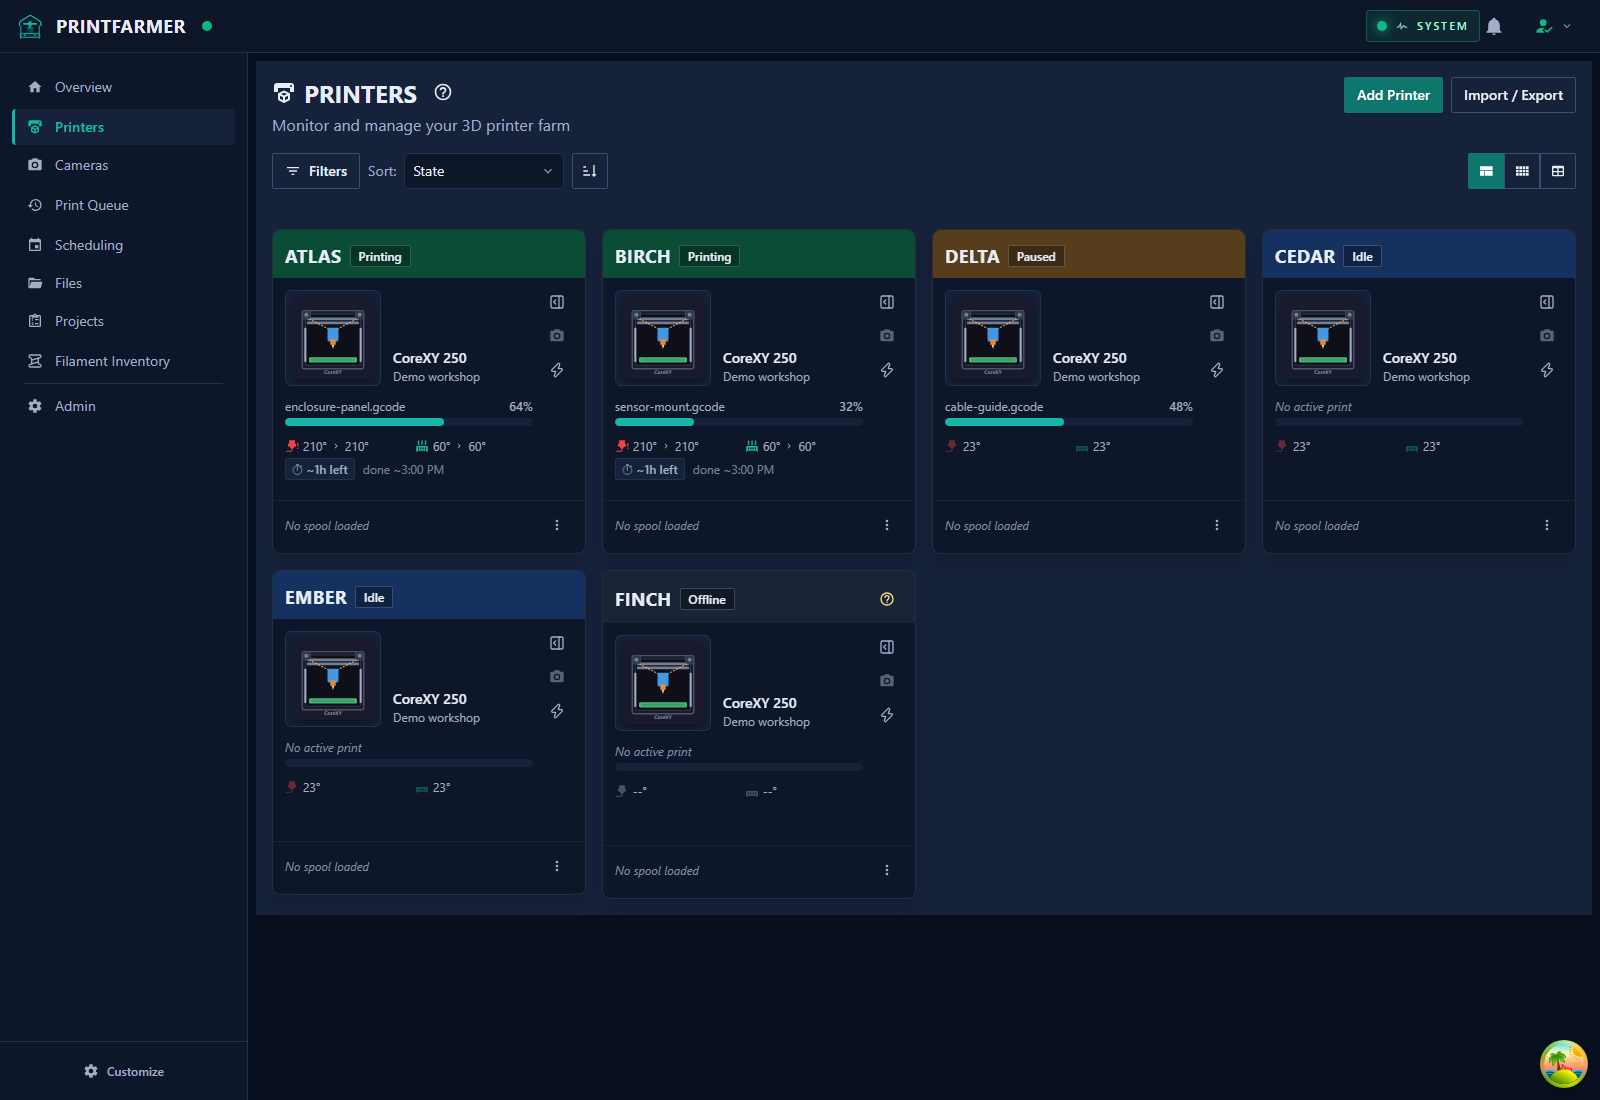
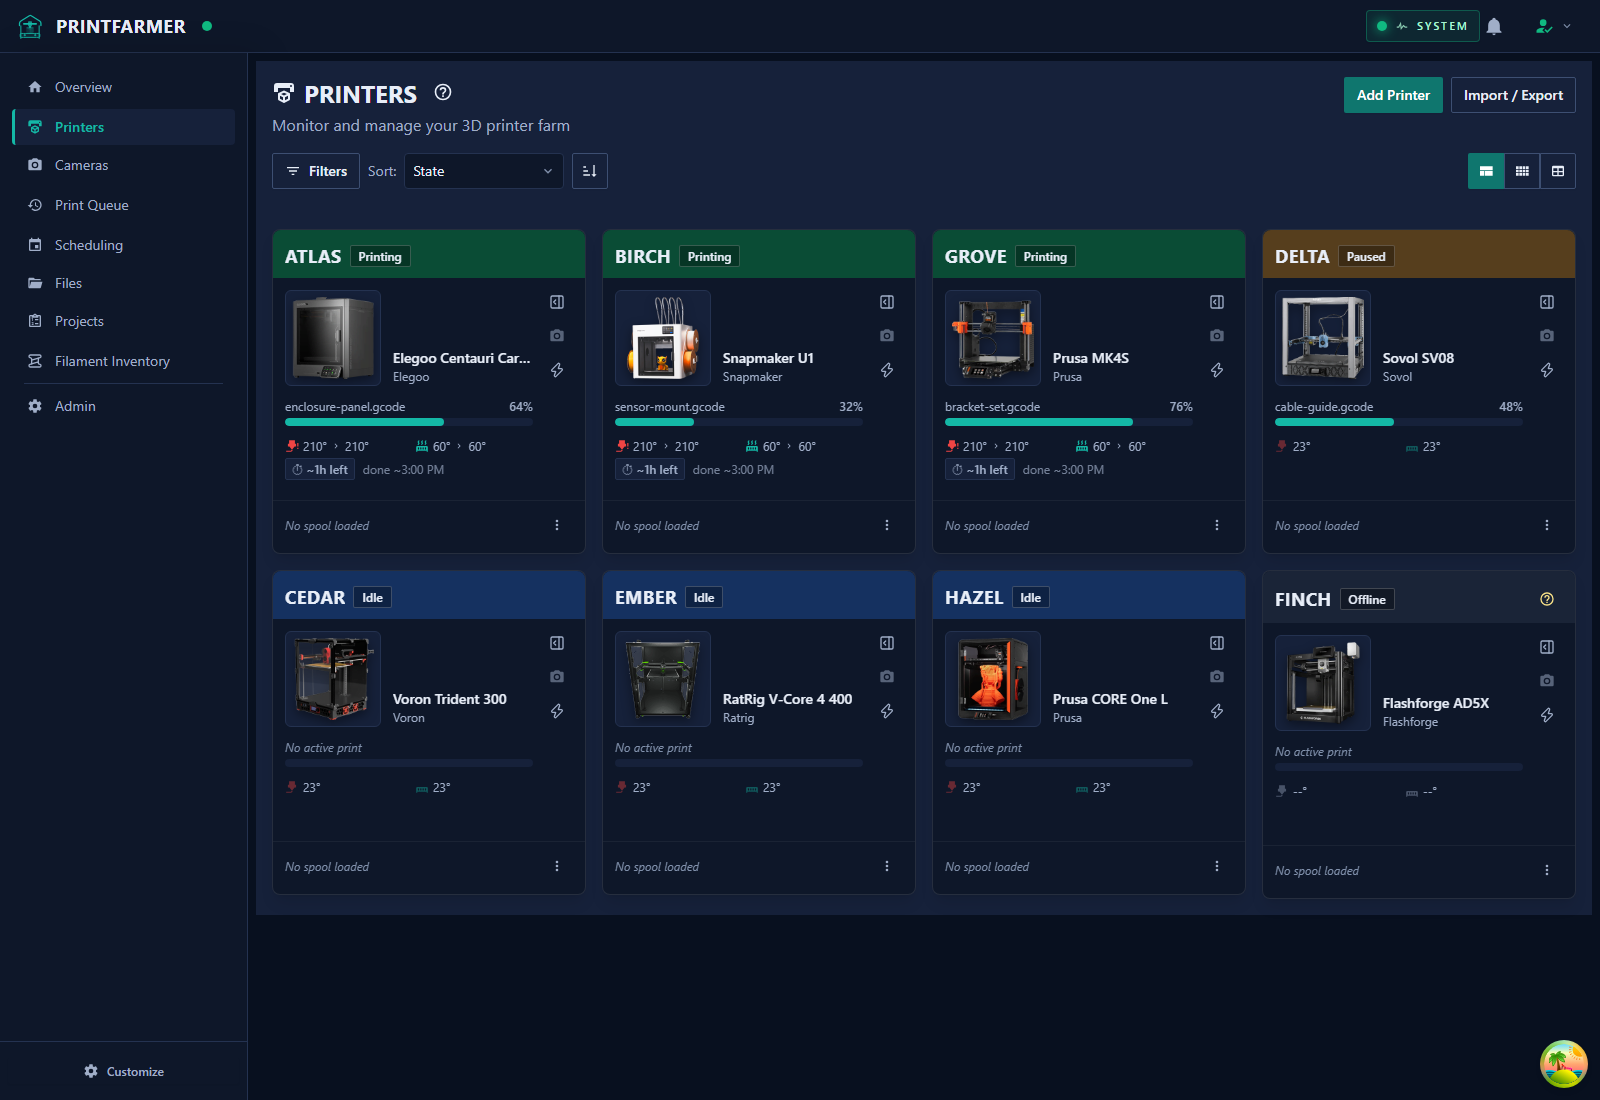
feat(site): show requested printer model covers in fleet capture
Document source-level backend evidence and unresolved image rights before public marketing use.

diff --git a/src/Web/ReactApp/e2e/marketing/fixtures.ts b/src/Web/ReactApp/e2e/marketing/fixtures.ts
@@ -1,32 +1,41 @@
 import type { BrowserContext } from '@playwright/test';
 import { inventoryRouteSeeds } from '../fixtures/toolbar-routes-inventory';
 import { toolbarRouteUser } from '../fixtures/toolbar-routed';
-import { MotionType, PrinterBackend, PrintProjectStatus, type Printer, type PrintProjectListDto, type SpoolmanFilament, type QueueChangeFeed, type QueueChangeWatermark } from '../../src/types/api';
+import { MotionType, PrinterBackend, PrintProjectStatus, type Printer, type ManufacturerDto, type PrinterModelDto, type PrintProjectListDto, type SpoolmanFilament, type QueueChangeFeed, type QueueChangeWatermark } from '../../src/types/api';
 
 export const captureOrigin = 'http://127.0.0.1:4178';
 export const captureTime = '2026-10-30T14:00:00Z';
 const inventory = inventoryRouteSeeds();
 
-export const printers: Printer[] = ([
-  ['demo-1', 'Atlas', 'Printing', 64, 'enclosure-panel.gcode'],
-  ['demo-2', 'Birch', 'Printing', 32, 'sensor-mount.gcode'],
-  ['demo-3', 'Cedar', 'Idle', 0, ''],
-  ['demo-4', 'Delta', 'Paused', 48, 'cable-guide.gcode'],
-  ['demo-5', 'Ember', 'Idle', 0, ''],
-  ['demo-6', 'Finch', 'Offline', 0, ''],
-] as const).map(([id, name, state, progress, fileName]) => ({
+export const printers = ([
+  ['demo-1', 'Atlas', 'Printing', 64, 'enclosure-panel.gcode', 'Elegoo', 'Elegoo Centauri Carbon', PrinterBackend.SDCP, MotionType.CoreXY],
+  ['demo-2', 'Birch', 'Printing', 32, 'sensor-mount.gcode', 'Snapmaker', 'Snapmaker U1', PrinterBackend.Moonraker, MotionType.CoreXY],
+  ['demo-3', 'Cedar', 'Idle', 0, '', 'Voron', 'Voron Trident 300', PrinterBackend.Moonraker, MotionType.CoreXY],
+  ['demo-4', 'Delta', 'Paused', 48, 'cable-guide.gcode', 'Sovol', 'Sovol SV08', PrinterBackend.Moonraker, MotionType.CoreXY],
+  ['demo-5', 'Ember', 'Idle', 0, '', 'Ratrig', 'RatRig V-Core 4 400', PrinterBackend.Moonraker, MotionType.CoreXY],
+  ['demo-6', 'Finch', 'Offline', 0, '', 'Flashforge', 'Flashforge AD5X', PrinterBackend.FlashForge, MotionType.CoreXY],
+  ['demo-7', 'Grove', 'Printing', 76, 'bracket-set.gcode', 'Prusa', 'Prusa MK4S', PrinterBackend.PrusaLink, MotionType.Cartesian],
+  ['demo-8', 'Hazel', 'Idle', 0, '', 'Prusa', 'Prusa CORE One L', PrinterBackend.PrusaLink, MotionType.CoreXY],
+] as const).map(([id, name, state, progress, fileName, manufacturerName, modelName, backend, motionType]) => ({
   id, name, state, progress, fileName,
-  backend: PrinterBackend.Moonraker,
+  backend, manufacturerName, modelName, motionType,
   isOnline: state !== 'Offline', isEnabled: true, inMaintenance: false,
-  manufacturerName: 'Demo workshop', modelName: 'CoreXY 250',
-  motionType: MotionType.CoreXY,
   hotendTemp: state === 'Printing' ? 210 : 23,
   hotendTarget: state === 'Printing' ? 210 : 0,
   bedTemp: state === 'Printing' ? 60 : 23,
   bedTarget: state === 'Printing' ? 60 : 0,
   printTimeLeftSeconds: state === 'Printing' ? 3600 : undefined,
   obicoEnabled: false,
-}));
+} satisfies Printer));
+
+const manufacturers = [...new Set(printers.map(printer => printer.manufacturerName))].map(name => ({
+  id: `demo-${name.toLowerCase()}`, name,
+} satisfies ManufacturerDto));
+const printerModels = printers.map(printer => ({
+  id: `model-${printer.id}`, name: printer.modelName,
+  manufacturerId: `demo-${printer.manufacturerName.toLowerCase()}`,
+  motionType: printer.motionType, defaultBackend: printer.backend,
+} satisfies PrinterModelDto));
 
 const responses: Record<string, unknown> = {
   'GET /api/setup/status': { needsSetup: false },
@@ -44,7 +53,7 @@ const responses: Record<string, unknown> = {
     app: { version: 'demo', uptime: '01:00:00', hostname: 'demo-workshop' },
     cpu: { cores: 4, usagePercent: 10 }, memory: { usedBytes: 1000000000, totalBytes: 8000000000 },
     disk: { usedBytes: 1000000000, totalBytes: 8000000000, archiveBytes: 0, databaseBytes: 0 },
-    services: [], database: { engine: 'SQLite', version: 'demo', printerCount: 6, archiveCount: 0 },
+    services: [], database: { engine: 'SQLite', version: 'demo', printerCount: printers.length, archiveCount: 0 },
   },
   'GET /api/admin/release-updates': {
     status: 'UpToDate', updateAvailable: false, installedVersion: 'demo', channel: 'Stable',
@@ -55,8 +64,8 @@ const responses: Record<string, unknown> = {
   },
   'GET /api/job-queue/changes/watermark': { latestSequence: 0 } satisfies QueueChangeWatermark,
   'GET /api/job-queue/changes': { afterSequence: 0, nextSequence: 0, hasMore: false, events: [] } satisfies QueueChangeFeed,
-  'GET /api/catalog/manufacturers': inventory['/api/catalog/manufacturers'],
-  'GET /api/catalog/printer-models': inventory['/api/catalog/printer-models'],
+  'GET /api/catalog/manufacturers': manufacturers,
+  'GET /api/catalog/printer-models': printerModels,
   'GET /api/tags/objects': [],
   'GET /api/job-queue-analytics/printer-summaries': [],
   'GET /api/auto-dispatch/status': { globalEnabled: false, printers: [] },

diff --git a/src/Web/ReactApp/e2e/marketing/capture.spec.ts b/src/Web/ReactApp/e2e/marketing/capture.spec.ts
@@ -1,7 +1,7 @@
 import { expect, test } from '@playwright/test';
 import { mkdir } from 'node:fs/promises';
 import { fileURLToPath } from 'node:url';
-import { captureOrigin, captureTime, isolateCapture } from './fixtures';
+import { captureOrigin, captureTime, isolateCapture, printers } from './fixtures';
 
 const assets = fileURLToPath(new URL('../../../../../site/assets/captures/', import.meta.url));
 
@@ -26,9 +26,25 @@ for (const scene of [
     await expect(page.locator('main [aria-busy="true"]')).toHaveCount(0);
     await expect(page.locator('main [role="alert"]')).toHaveCount(0);
     if (scene.name === 'fleet') {
-      for (const name of ['Atlas', 'Birch', 'Cedar', 'Delta', 'Ember', 'Finch']) {
-        await expect(page.getByText(name, { exact: true })).toBeVisible();
+      const cards = page.locator('main article[data-pf-card]');
+      await expect(cards).toHaveCount(8);
+      for (const printer of printers) {
+        const card = cards.filter({ has: page.getByText(printer.name, { exact: true }) });
+        await expect(card).toBeInViewport({ ratio: 1 });
+        await expect(card.getByText(printer.modelName, { exact: true })).toBeVisible();
+        const image = card.locator('[data-testid="compact-printer-image"] img');
+        const expectedCover = `/assets/orcaslicer/${printer.manufacturerName.toLowerCase()}/${encodeURIComponent(printer.modelName)}_cover.png`;
+        await expect(image).toHaveAttribute('src', expectedCover);
+        await expect.poll(() => image.evaluate((img: HTMLImageElement) => img.complete && img.naturalWidth > 0)).toBe(true);
       }
+      const positions = await cards.evaluateAll(elements => elements.map(element => {
+        const { x, y } = element.getBoundingClientRect();
+        return { x: Math.round(x), y: Math.round(y) };
+      }));
+      expect(new Set(positions.map(position => position.x)).size, 'Four columns').toBe(4);
+      const rows = [...new Set(positions.map(position => position.y))];
+      expect(rows, 'Two complete rows').toHaveLength(2);
+      for (const y of rows) expect(positions.filter(position => position.y === y)).toHaveLength(4);
       await expect(page.getByText('64%', { exact: true })).toBeVisible();
     }
     if (scene.name === 'projects') {

diff --git a/site/index.html b/site/index.html
@@ -57,11 +57,11 @@ seed 6bf9f90b. Preserve the established app identity, no theme replacement.
         </div>
         <a href="assets/captures/fleet.png" class="capture-link" aria-label="Open full-size printer fleet screenshot">
           <img class="fleet-capture" src="assets/captures/fleet.png" width="1600" height="1100"
-            alt="PrintFarmer's Printers page with six synthetic printers: Atlas and Birch printing, Delta paused, Cedar and Ember idle, and Finch offline."
+            alt="PrintFarmer's Printers page with eight demo printers and model images: Elegoo Centauri Carbon, Snapmaker U1, Voron Trident, Sovol SV08, RatRig V-Core 4, Flashforge AD5X, Prusa MK4S, and CORE One L, in printing, paused, idle, and offline states."
             fetchpriority="high">
           <span class="image-action" aria-hidden="true">Open full screenshot &#8599;</span>
         </a>
-        <figcaption>Actual PrintFarmer web interface. All printers, jobs, materials, and figures shown are synthetic demo data. No live farm or camera feeds.</figcaption>
+        <figcaption>Actual PrintFarmer web interface with model images from OrcaSlicer profiles. Printer names, jobs, materials, and figures are synthetic demo data, not a hardware compatibility test. No live farm or camera feeds.</figcaption>
       </figure>
     </section>
 
@@ -88,7 +88,7 @@ seed 6bf9f90b. Preserve the established app identity, no theme replacement.
           <a class="text-link" href="#fleet">View the fleet screenshot <span aria-hidden="true">&#8593;</span></a>
         </div>
         <div class="fleet-notes">
-          <p><strong>A fleet, not six browser tabs.</strong> The same printer list keeps different machine states visible side by side.</p>
+          <p><strong>A fleet, not eight browser tabs.</strong> The same printer list keeps different machine states visible side by side.</p>
           <p><strong>Status with context.</strong> A paused print is not an idle printer. An offline printer is not a successful job.</p>
           <p><strong>Go deeper when you need to.</strong> Compact and detailed views let you choose how much of the workspace a printer occupies.</p>
         </div>

diff --git a/docs/MARKETING_CAPTURES.md b/docs/MARKETING_CAPTURES.md
@@ -16,8 +16,46 @@ The images demonstrate frontend presentation, **not** functioning hardware,
 backend safety, performance, or a verified Spoolman connection.
 
 The logo is copied from `src/Web/ReactApp/public/printfarmer-logo.svg`.
-Printer illustrations are the app's repository-owned generic CoreXY fallback,
-not customer photos, camera feeds, or vendor product photography.
+The fleet uses eight existing OrcaSlicer model cover images through the app's
+`PrinterImage` / `assetService` resolver and local asset manifest, not generic
+fallbacks or screenshot edits. No customer photos or camera feeds are used.
+
+## Models shown, connection evidence, and image rights
+
+The fixture interprets "Elegoo CC1" as the original Centauri Carbon and "adx5"
+as Flashforge AD5X. It selects the Trident 300 and V-Core 4 400 variants.
+The table records source-level connection evidence, **not** verified operation
+of these eight physical printers or every firmware/capability combination.
+
+| Model shown | Fixture backend | Evidence and limits |
+|---|---|---|
+| Elegoo Centauri Carbon | SDCP | `SdcpClient` explicitly targets this model. |
+| Snapmaker U1 | Moonraker | `MoonrakerDiscoveryProbe` and U1-specific client/subscription code handle its Moonraker-compatible interface. |
+| Voron Trident 300 | Moonraker | Conditional on a reachable compatible Klipper/Moonraker installation; no Trident-specific hardware proof was collected. |
+| Sovol SV08 | Moonraker | Conditional on its exposed compatible Moonraker API; no SV08-specific hardware proof was collected. |
+| RatRig V-Core 4 400 | Moonraker | Conditional on a compatible Klipper/Moonraker installation; no V-Core 4-specific hardware proof was collected. |
+| Flashforge AD5X | FlashForge | `FlashForgeBackendPlugin` explicitly notes AD5X's port 8080; `FlashForgeClient` parses its machine response. ZMOD/Moonraker is a separate firmware-dependent route, not used here. |
+| Prusa MK4S | PrusaLink | Generic `PrusaLinkDiscoveryProbe` / `IPrusaLinkClient` connection route; exact model/firmware capability coverage was not verified here. |
+| Prusa CORE One L | PrusaLink | Same generic PrusaLink route; the cover's presence does not establish CORE One L-specific hardware validation. |
+
+Cover files are under `src/Web/ReactApp/public/assets/orcaslicer/`, with exact
+manufacturer/model names recorded in `manifest.json`. The repository's
+`scripts/restore-orcaslicer-assets.js` extracts model covers from OrcaSlicer
+profile resources. The capture tests require the expected cover URL and a
+decoded image for each card, with all eight cards fully visible in a 4x2 grid.
+
+[Third-party notices](../THIRD-PARTY-NOTICES.md#orcaslicer) identify bundled
+OrcaSlicer resources as AGPLv3 and require upstream notices to remain intact.
+This is **not** per-image copyright provenance, marketing permission, or a
+trademark endorsement. The exact upstream revision, individual image authors
+and any separate vendor terms for these existing covers have not been
+established by this capture work. Before public marketing publication, the
+owner must resolve applicable attribution/source/notice obligations and any
+separate image/trademark restrictions. No blanket clearance is asserted and
+no public deployment is authorized by this change. Incorrect compatibility
+claims could mislead buyers; incorrect rights assumptions could harm image
+owners and expose the publisher to takedown or other claims. Local captures
+can be replaced; public redistribution may not be fully reversible.
 
 ## Marketing surface design
 
